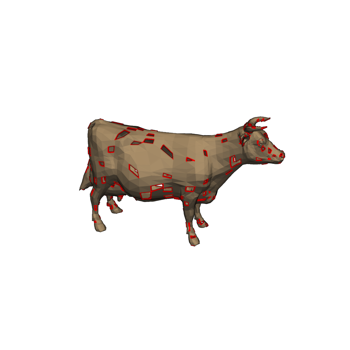
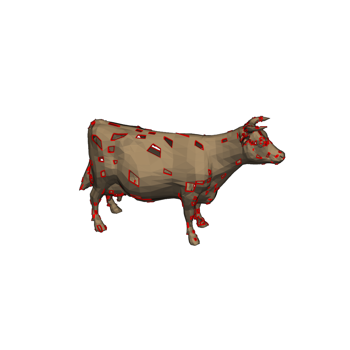
Update docs after building Travis build 58 of pyvista/pymeshfix
The docs were built from the branch 'master' against the commit
e546f50c84cab03819b79cf43d5edcfaf2949155.

The Travis build that generated this commit is at
https://travis-ci.org/pyvista/pymeshfix/jobs/558632636.

The doctr command that was run is

    /home/travis/virtualenv/python3.7.1/bin/doctr deploy --built-docs ./docs/_build/html/ .

diff --git a/searchindex.js b/searchindex.js
@@ -1,1 +1,1 @@
-Search.setIndex({docnames:["api","examples/bunny","examples/cow","examples/index","examples/sg_execution_times","examples/torso","index"],envversion:{"sphinx.domains.c":1,"sphinx.domains.changeset":1,"sphinx.domains.cpp":1,"sphinx.domains.javascript":1,"sphinx.domains.math":2,"sphinx.domains.python":1,"sphinx.domains.rst":1,"sphinx.domains.std":1,sphinx:56},filenames:["api.rst","examples/bunny.rst","examples/cow.rst","examples/index.rst","examples/sg_execution_times.rst","examples/torso.rst","index.rst"],objects:{"pymeshfix.MeshFix":{extract_holes:[0,1,1,""],load_arrays:[0,1,1,""],mesh:[0,2,1,""],plot:[0,1,1,""],repair:[0,1,1,""],save:[0,1,1,""],write:[0,1,1,""]},pymeshfix:{MeshFix:[0,0,1,""],_meshfix:[0,3,0,"-"],meshfix:[0,3,0,"-"]}},objnames:{"0":["py","class","Python class"],"1":["py","method","Python method"],"2":["py","attribute","Python attribute"],"3":["py","module","Python module"]},objtypes:{"0":"py:class","1":"py:method","2":"py:attribute","3":"py:module"},terms:{"083e":5,"0x7f5b76466468":2,"0x7f5b764667c8":5,"0x7f5b764c1948":2,"320e":5,"442e":5,"446e":2,"624e":5,"637e":2,"680e":5,"696e":2,"701e":2,"720e":5,"760e":2,"998e":2,"case":6,"class":0,"default":0,"float":6,"import":[1,2,5,6],"new":0,"public":6,"return":[0,6],"true":[0,1,2,5],"while":6,FOR:6,One:6,The:6,There:6,_meshfix:6,abov:6,absolut:5,access:[0,6],add:2,add_mesh:[1,2,5],addit:0,again:6,agreement:6,all:[0,6],allow:6,along:5,altern:6,ani:6,appi:5,approach:6,arg:0,argument:0,arrai:[0,2,5,6],ascii:0,assum:6,attempt:[0,6],atten:[0,6],author:6,award:6,base:[0,6],been:6,befor:0,begin:0,bell:6,better:6,binari:0,bool:0,both:0,bound:[2,5,6],boundari:[0,6],bring:6,bunni:[3,4],cad:6,camera:[1,2],camera_posit:[1,2,5],can:[0,6],cannot:6,cast:2,cell:[2,5],charact:0,check:6,cite:6,clean:[0,6],clean_from_arrai:6,clean_from_fil:6,click:[1,2,5],clone:6,close:6,cnr:6,coars:6,code:[1,2,5],color:[1,2,5],com:6,commerci:6,commun:6,complex:5,compon:[0,2,5,6],comput:6,contain:0,contract:6,control:6,copi:6,correct:6,could:6,cow:[3,4],cpo:[1,2,5],cpos_ear:5,creat:6,cython:[0,6],data:0,debug:0,defect:6,defin:1,degener:6,degeneraci:[1,2,5],deprec:0,depth:[1,2,5],design:6,detail:6,digit:6,directli:6,disabl:0,disk:0,distribut:6,doi:6,download:[1,2,5],download_bunni:1,download_cow:2,download_torso:5,drive:6,dual:6,each:0,ear:5,eas:6,either:[0,6],element:6,emphas:5,enabl:0,enable_eye_dome_light:[1,2,5],ensur:5,even:6,exampl:[1,2,4,5],execut:4,extens:0,extract:[0,1,5],extract_geometri:2,extract_hol:[0,1,2,5],eye_dome_light:5,face:[0,6],fail:6,fals:0,faster:0,fclean:6,file:[0,4],filenam:0,filetyp:0,fill:6,fill_small_boundari:6,filter:5,fit:6,fix:[1,2,5],flaw:6,follow:[0,6],format:6,foundat:6,free:6,from:[0,1,2,5,6],ftype:0,full:[1,2,5],galleri:[1,2,3,5],gener:[1,2,3,5,6],git:6,github:6,gnu:6,gpl:6,hard:6,has:6,have:6,help:[1,2,5],here:[1,2,5,6],hole:[0,1,2,5,6],holei:[3,4],holy_cow:2,hope:6,how:6,http:6,idea:6,imati:6,impli:6,infer:0,infil:6,inner_loop:6,inplac:0,input:6,int32:6,interfac:0,intersect:[1,2,5,6],invert:2,ipynb:[1,2,5],isol:0,join:[0,6],join_closest_compon:6,joincomp:0,jupyt:[1,2,5],keyword:0,kwarg:0,largest:0,later:6,left:6,leverag:6,librari:6,licens:6,lightweight:6,line:0,line_width:[1,2,5],list:6,load:[0,6],load_arrai:[0,6],loadfil:6,locat:2,mai:[0,6],main:6,marco:[0,6],max_it:6,memori:6,merchant:6,mesh:[0,1,2,5,6],meshfix:[0,1,2,5,6],method:0,might:6,minut:[1,2,5],model:6,modifi:6,modul:[0,6],more:6,much:0,must:6,n_cell:2,nativ:6,ndarrai:0,nearbi:[0,6],necessari:6,need:5,nice:2,note:0,notebook:[1,2,5],numpi:[0,2,6],object:[0,6],occurr:6,one:0,open:0,option:[0,6],org:6,other:6,out:[1,2,5,6],outfil:6,outlin:[1,2,5],output:6,over:6,overridden:0,paper:6,paramet:0,part:[5,6],particular:6,patch:[1,2,5],percept:[1,2,5],perform:[0,6],perfrom:5,pip:6,pleas:6,plot:[0,1,2,5,6],plotter:[1,2,5],ply:[0,6],point:[0,2,5],polydata:[0,2,5],polygon:6,polyhedr:5,polyhedron:6,portabl:6,posit:1,present:6,print:[0,2,5,6],process:0,produc:6,program:6,proper:6,publish:6,purpos:6,pymeshfix:[0,1,2,5],pypi:6,python:[0,1,2,5,6],pytmesh:6,pyvista:[0,1,2,5,6],rand:2,random:2,raw:6,reach:6,read:6,readi:1,reason:6,redistribut:6,refer:6,region:6,remov:[0,2,5,6],remove_smallest_compon:0,render:[1,2],repair:[0,1,2,5,6],repres:6,requir:6,research:6,reserv:6,result:[2,6],return_arrai:6,right:6,run:[1,2,5,6],s00371:6,same:6,save:[0,6],save_fil:6,script:[1,2,5],second:[1,2,5],see:6,self:6,set:6,should:[0,6],show:[0,1,2,5],show_edg:5,show_hol:0,simpl:0,simpli:5,singl:6,singular:6,small:[2,5],softwar:6,solid:6,sort:6,sourc:[1,2,5,6],specif:6,specifi:0,speed:6,sphinx:[1,2,3,5],sphinx_gallery_thumbnail_numb:[1,2,5],springer:6,stl:0,str:0,string:0,subtl:5,surfac:[0,6],take:6,term:6,tessel:6,test:6,tetrahedr:0,than:0,thei:6,them:0,therefor:6,therein:6,thi:[0,5,6],three:0,threshold:2,thu:6,tight:5,time:[1,2,5],tin:6,tmesh:6,torso:[3,4],total:[1,2,4,5],tri_filt:[2,5],triangl:[5,6],triangul:2,triangular:0,txt:6,type:0,typic:6,unavail:6,under:6,understand:6,unless:0,unmodifi:6,updat:0,use:6,used:6,useful:6,user:6,uses:6,using:[0,6],vclean:6,verbos:[0,1,2,5],version:6,vertex:[0,6],view:6,visual:6,vtk:0,vtkinterfac:6,warranti:6,water:5,watertight:6,where:[5,6],whistl:6,win:6,wish:6,with_vtk:6,within:6,wonder:6,work:6,wrap:0,wrapper:[0,6],write:[0,6],written:0,www:6,xyz:0,you:6,your:6},titles:["API Reference","Bunny","Holey Cow","Examples","Computation times","Torso","PyMeshFix"],titleterms:{algorithm:6,api:0,bunni:1,citat:6,complet:6,comput:4,copyright:6,cow:2,depend:6,easi:6,exampl:[3,6],holei:2,instal:6,polici:6,pymeshfix:6,refer:0,time:4,torso:5,vtk:6,without:6}})
+Search.setIndex({docnames:["api","examples/bunny","examples/cow","examples/index","examples/sg_execution_times","examples/torso","index"],envversion:{"sphinx.domains.c":1,"sphinx.domains.changeset":1,"sphinx.domains.cpp":1,"sphinx.domains.javascript":1,"sphinx.domains.math":2,"sphinx.domains.python":1,"sphinx.domains.rst":1,"sphinx.domains.std":1,sphinx:56},filenames:["api.rst","examples/bunny.rst","examples/cow.rst","examples/index.rst","examples/sg_execution_times.rst","examples/torso.rst","index.rst"],objects:{"pymeshfix.MeshFix":{extract_holes:[0,1,1,""],load_arrays:[0,1,1,""],mesh:[0,2,1,""],plot:[0,1,1,""],repair:[0,1,1,""],save:[0,1,1,""],write:[0,1,1,""]},pymeshfix:{MeshFix:[0,0,1,""],_meshfix:[0,3,0,"-"],meshfix:[0,3,0,"-"]}},objnames:{"0":["py","class","Python class"],"1":["py","method","Python method"],"2":["py","attribute","Python attribute"],"3":["py","module","Python module"]},objtypes:{"0":"py:class","1":"py:method","2":"py:attribute","3":"py:module"},terms:{"083e":5,"0x7eff80fb3f48":2,"0x7eff80fd2708":2,"0x7eff80fd2a68":5,"320e":5,"442e":5,"446e":2,"624e":5,"637e":2,"680e":5,"696e":2,"701e":2,"720e":5,"760e":2,"998e":2,"case":6,"class":0,"default":0,"float":6,"import":[1,2,5,6],"new":0,"public":6,"return":[0,6],"true":[0,1,2,5],"while":6,FOR:6,One:6,The:6,There:6,_meshfix:6,abov:6,absolut:5,access:[0,6],add:2,add_mesh:[1,2,5],addit:0,again:6,agreement:6,all:[0,6],allow:6,along:5,altern:6,ani:6,appi:5,approach:6,arg:0,argument:0,arrai:[0,2,5,6],ascii:0,assum:6,attempt:[0,6],atten:[0,6],author:6,award:6,base:[0,6],been:6,befor:0,begin:0,bell:6,better:6,binari:0,bool:0,both:0,bound:[2,5,6],boundari:[0,6],bring:6,bunni:[3,4],cad:6,camera:[1,2],camera_posit:[1,2,5],can:[0,6],cannot:6,cast:2,cell:[2,5],charact:0,check:6,cite:6,clean:[0,6],clean_from_arrai:6,clean_from_fil:6,click:[1,2,5],clone:6,close:6,cnr:6,coars:6,code:[1,2,5],color:[1,2,5],com:6,commerci:6,commun:6,complex:5,compon:[0,2,5,6],comput:6,contain:0,contract:6,control:6,copi:6,correct:6,could:6,cow:[3,4],cpo:[1,2,5],cpos_ear:5,creat:6,cython:[0,6],data:0,debug:0,defect:6,defin:1,degener:6,degeneraci:[1,2,5],deprec:0,depth:[1,2,5],design:6,detail:6,digit:6,directli:6,disabl:0,disk:0,distribut:6,doi:6,download:[1,2,5],download_bunni:1,download_cow:2,download_torso:5,drive:6,dual:6,each:0,ear:5,eas:6,either:[0,6],element:6,emphas:5,enabl:0,enable_eye_dome_light:[1,2,5],ensur:5,even:6,exampl:[1,2,4,5],execut:4,extens:0,extract:[0,1,5],extract_geometri:2,extract_hol:[0,1,2,5],eye_dome_light:5,face:[0,6],fail:6,fals:0,faster:0,fclean:6,file:[0,4],filenam:0,filetyp:0,fill:6,fill_small_boundari:6,filter:5,fit:6,fix:[1,2,5],flaw:6,follow:[0,6],format:6,foundat:6,free:6,from:[0,1,2,5,6],ftype:0,full:[1,2,5],galleri:[1,2,3,5],gener:[1,2,3,5,6],git:6,github:6,gnu:6,gpl:6,hard:6,has:6,have:6,help:[1,2,5],here:[1,2,5,6],hole:[0,1,2,5,6],holei:[3,4],holy_cow:2,hope:6,how:6,http:6,idea:6,imati:6,impli:6,infer:0,infil:6,inner_loop:6,inplac:0,input:6,int32:6,interfac:0,intersect:[1,2,5,6],invert:2,ipynb:[1,2,5],isol:0,join:[0,6],join_closest_compon:6,joincomp:0,jupyt:[1,2,5],keyword:0,kwarg:0,largest:0,later:6,left:6,leverag:6,librari:6,licens:6,lightweight:6,line:0,line_width:[1,2,5],list:6,load:[0,6],load_arrai:[0,6],loadfil:6,locat:2,mai:[0,6],main:6,marco:[0,6],max_it:6,memori:6,merchant:6,mesh:[0,1,2,5,6],meshfix:[0,1,2,5,6],method:0,might:6,minut:[1,2,5],model:6,modifi:6,modul:[0,6],more:6,much:0,must:6,n_cell:2,nativ:6,ndarrai:0,nearbi:[0,6],necessari:6,need:5,nice:2,note:0,notebook:[1,2,5],numpi:[0,2,6],object:[0,6],occurr:6,one:0,open:0,option:[0,6],org:6,other:6,out:[1,2,5,6],outfil:6,outlin:[1,2,5],output:6,over:6,overridden:0,paper:6,paramet:0,part:[5,6],particular:6,patch:[1,2,5],percept:[1,2,5],perform:[0,6],perfrom:5,pip:6,pleas:6,plot:[0,1,2,5,6],plotter:[1,2,5],ply:[0,6],point:[0,2,5],polydata:[0,2,5],polygon:6,polyhedr:5,polyhedron:6,portabl:6,posit:1,present:6,print:[0,2,5,6],process:0,produc:6,program:6,proper:6,publish:6,purpos:6,pymeshfix:[0,1,2,5],pypi:6,python:[0,1,2,5,6],pytmesh:6,pyvista:[0,1,2,5,6],rand:2,random:2,raw:6,reach:6,read:6,readi:1,reason:6,redistribut:6,refer:6,region:6,remov:[0,2,5,6],remove_smallest_compon:0,render:[1,2],repair:[0,1,2,5,6],repres:6,requir:6,research:6,reserv:6,result:[2,6],return_arrai:6,right:6,run:[1,2,5,6],s00371:6,same:6,save:[0,6],save_fil:6,script:[1,2,5],second:[1,2,5],see:6,self:6,set:6,should:[0,6],show:[0,1,2,5],show_edg:5,show_hol:0,simpl:0,simpli:5,singl:6,singular:6,small:[2,5],softwar:6,solid:6,sort:6,sourc:[1,2,5,6],specif:6,specifi:0,speed:6,sphinx:[1,2,3,5],sphinx_gallery_thumbnail_numb:[1,2,5],springer:6,stl:0,str:0,string:0,subtl:5,surfac:[0,6],take:6,term:6,tessel:6,test:6,tetrahedr:0,than:0,thei:6,them:0,therefor:6,therein:6,thi:[0,5,6],three:0,threshold:2,thu:6,tight:5,time:[1,2,5],tin:6,tmesh:6,torso:[3,4],total:[1,2,4,5],tri_filt:[2,5],triangl:[5,6],triangul:2,triangular:0,txt:6,type:0,typic:6,unavail:6,under:6,understand:6,unless:0,unmodifi:6,updat:0,use:6,used:6,useful:6,user:6,uses:6,using:[0,6],vclean:6,verbos:[0,1,2,5],version:6,vertex:[0,6],view:6,visual:6,vtk:0,vtkinterfac:6,warranti:6,water:5,watertight:6,where:[5,6],whistl:6,win:6,wish:6,with_vtk:6,within:6,wonder:6,work:6,wrap:0,wrapper:[0,6],write:[0,6],written:0,www:6,xyz:0,you:6,your:6},titles:["API Reference","Bunny","Holey Cow","Examples","Computation times","Torso","PyMeshFix"],titleterms:{algorithm:6,api:0,bunni:1,citat:6,complet:6,comput:4,copyright:6,cow:2,depend:6,easi:6,exampl:[3,6],holei:2,instal:6,polici:6,pymeshfix:6,refer:0,time:4,torso:5,vtk:6,without:6}})

diff --git a/examples/cow.html b/examples/cow.html
@@ -223,9 +223,9 @@
 </pre></div>
 </div>
 <p class="sphx-glr-script-out">Out:</p>
-<div class="sphx-glr-script-out highlight-none notranslate"><div class="highlight"><pre><span></span>PolyData (0x7f5b76466468)
-  N Cells:      5266
-  N Points:     2903
+<div class="sphx-glr-script-out highlight-none notranslate"><div class="highlight"><pre><span></span>PolyData (0x7eff80fd2708)
+  N Cells:      5194
+  N Points:     2902
   X Bounds:     -4.446e+00, 5.998e+00
   Y Bounds:     -3.637e+00, 2.760e+00
   Z Bounds:     -1.701e+00, 1.701e+00
@@ -255,9 +255,9 @@
 </pre></div>
 </div>
 <p class="sphx-glr-script-out">Out:</p>
-<div class="sphx-glr-script-out highlight-none notranslate"><div class="highlight"><pre><span></span>Removed 2 small components
+<div class="sphx-glr-script-out highlight-none notranslate"><div class="highlight"><pre><span></span>Removed 1 small components
 Patching holes...
-Patched 192 holes
+Patched 212 holes
 Fixing degeneracies and intersections
 </pre></div>
 </div>
@@ -267,9 +267,9 @@ Fixing degeneracies and intersections
 </pre></div>
 </div>
 <p class="sphx-glr-script-out">Out:</p>
-<div class="sphx-glr-script-out highlight-none notranslate"><div class="highlight"><pre><span></span>PolyData (0x7f5b764c1948)
-  N Cells:      5426
-  N Points:     2715
+<div class="sphx-glr-script-out highlight-none notranslate"><div class="highlight"><pre><span></span>PolyData (0x7eff80fb3f48)
+  N Cells:      5446
+  N Points:     2725
   X Bounds:     -3.696e+00, 5.998e+00
   Y Bounds:     -3.637e+00, 2.760e+00
   Z Bounds:     -1.701e+00, 1.701e+00
@@ -280,7 +280,7 @@ Fixing degeneracies and intersections
 </pre></div>
 </div>
 <img alt="../_images/sphx_glr_cow_002.png" class="sphx-glr-single-img" src="../_images/sphx_glr_cow_002.png" />
-<p class="sphx-glr-timing"><strong>Total running time of the script:</strong> ( 0 minutes  5.208 seconds)</p>
+<p class="sphx-glr-timing"><strong>Total running time of the script:</strong> ( 0 minutes  5.156 seconds)</p>
 <div class="sphx-glr-footer class sphx-glr-footer-example docutils container" id="sphx-glr-download-examples-cow-py">
 <div class="sphx-glr-download docutils container">
 <p><a class="reference download internal" download="" href="../_downloads/700f1bf357ea69088c0a34b0aa306d26/cow.py"><code class="xref download docutils literal notranslate"><span class="pre">Download</span> <span class="pre">Python</span> <span class="pre">source</span> <span class="pre">code:</span> <span class="pre">cow.py</span></code></a></p>

diff --git a/examples/sg_execution_times.html b/examples/sg_execution_times.html
@@ -193,11 +193,11 @@
             
   <div class="section" id="computation-times">
 <span id="sphx-glr-examples-sg-execution-times"></span><h1>Computation times<a class="headerlink" href="#computation-times" title="Permalink to this headline">¶</a></h1>
-<p><strong>00:36.682</strong> total execution time for <strong>examples</strong> files:</p>
+<p><strong>00:36.076</strong> total execution time for <strong>examples</strong> files:</p>
 <ul class="simple">
-<li><p><strong>00:17.270</strong>: <a class="reference internal" href="torso.html#sphx-glr-examples-torso-py"><span class="std std-ref">Torso</span></a> (<code class="docutils literal notranslate"><span class="pre">torso.py</span></code>)</p></li>
-<li><p><strong>00:14.205</strong>: <a class="reference internal" href="bunny.html#sphx-glr-examples-bunny-py"><span class="std std-ref">Bunny</span></a> (<code class="docutils literal notranslate"><span class="pre">bunny.py</span></code>)</p></li>
-<li><p><strong>00:05.208</strong>: <a class="reference internal" href="cow.html#sphx-glr-examples-cow-py"><span class="std std-ref">Holey Cow</span></a> (<code class="docutils literal notranslate"><span class="pre">cow.py</span></code>)</p></li>
+<li><p><strong>00:17.234</strong>: <a class="reference internal" href="torso.html#sphx-glr-examples-torso-py"><span class="std std-ref">Torso</span></a> (<code class="docutils literal notranslate"><span class="pre">torso.py</span></code>)</p></li>
+<li><p><strong>00:13.686</strong>: <a class="reference internal" href="bunny.html#sphx-glr-examples-bunny-py"><span class="std std-ref">Bunny</span></a> (<code class="docutils literal notranslate"><span class="pre">bunny.py</span></code>)</p></li>
+<li><p><strong>00:05.156</strong>: <a class="reference internal" href="cow.html#sphx-glr-examples-cow-py"><span class="std std-ref">Holey Cow</span></a> (<code class="docutils literal notranslate"><span class="pre">cow.py</span></code>)</p></li>
 </ul>
 </div>
 

diff --git a/examples/torso.html b/examples/torso.html
@@ -219,7 +219,7 @@ parts of the mesh</p>
 </pre></div>
 </div>
 <p class="sphx-glr-script-out">Out:</p>
-<div class="sphx-glr-script-out highlight-none notranslate"><div class="highlight"><pre><span></span>PolyData (0x7f5b764667c8)
+<div class="sphx-glr-script-out highlight-none notranslate"><div class="highlight"><pre><span></span>PolyData (0x7eff80fd2a68)
   N Cells:      12448
   N Points:     12015
   X Bounds:     -1.680e+02, 1.720e+02
@@ -282,7 +282,7 @@ Fixing degeneracies and intersections
 </pre></div>
 </div>
 <img alt="../_images/sphx_glr_torso_004.png" class="sphx-glr-single-img" src="../_images/sphx_glr_torso_004.png" />
-<p class="sphx-glr-timing"><strong>Total running time of the script:</strong> ( 0 minutes  17.270 seconds)</p>
+<p class="sphx-glr-timing"><strong>Total running time of the script:</strong> ( 0 minutes  17.234 seconds)</p>
 <div class="sphx-glr-footer class sphx-glr-footer-example docutils container" id="sphx-glr-download-examples-torso-py">
 <div class="sphx-glr-download docutils container">
 <p><a class="reference download internal" download="" href="../_downloads/988781b05954ec5068adbfe7a980b827/torso.py"><code class="xref download docutils literal notranslate"><span class="pre">Download</span> <span class="pre">Python</span> <span class="pre">source</span> <span class="pre">code:</span> <span class="pre">torso.py</span></code></a></p>

diff --git a/examples/bunny.html b/examples/bunny.html
@@ -255,7 +255,7 @@ Fixing degeneracies and intersections
 </pre></div>
 </div>
 <img alt="../_images/sphx_glr_bunny_003.png" class="sphx-glr-single-img" src="../_images/sphx_glr_bunny_003.png" />
-<p class="sphx-glr-timing"><strong>Total running time of the script:</strong> ( 0 minutes  14.205 seconds)</p>
+<p class="sphx-glr-timing"><strong>Total running time of the script:</strong> ( 0 minutes  13.686 seconds)</p>
 <div class="sphx-glr-footer class sphx-glr-footer-example docutils container" id="sphx-glr-download-examples-bunny-py">
 <div class="sphx-glr-download docutils container">
 <p><a class="reference download internal" download="" href="../_downloads/81a10a6450959c49a589aa8cee630836/bunny.py"><code class="xref download docutils literal notranslate"><span class="pre">Download</span> <span class="pre">Python</span> <span class="pre">source</span> <span class="pre">code:</span> <span class="pre">bunny.py</span></code></a></p>
